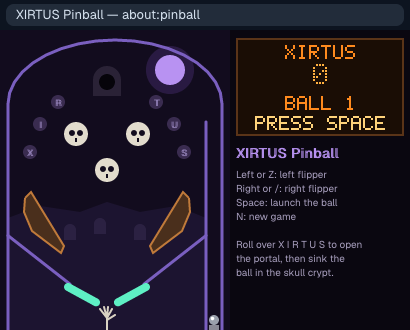
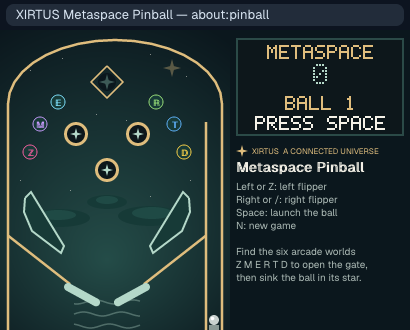
Games: Metaspace theme for pinball, and where its frame time goes
The pinball table becomes XIRTUS Metaspace Pinball: the Metaspace
palette and sigil, the archipelago under the stars, and six rollover
lights for the Xirtus Arcade worlds (Z M E R T D) that open the gate.
Physics and layout are unchanged. The ledger records a split of frame
time in QEMU (TCG, no KVM) against a native host run.

Claude-Session: https://claude.ai/code/session_01Hh8Vnj7cURgGrgHW2S2vc1

diff --git a/apps/web/src/games/pinball.html b/apps/web/src/games/pinball.html
@@ -1,11 +1,13 @@
 <!doctype html>
-<title>XIRTUS Pinball</title>
-<body style="margin:0;background:#0a0710">
+<title>XIRTUS Metaspace Pinball</title>
+<body style="margin:0;background:#0b171d">
 <canvas id="table" width="410" height="300" style="display:block"></canvas>
-<!-- Pinball on a haunted night table, played from the keyboard. Original SexOS game,
-     GPL-3.0-only. Its theme follows Anderson Mancini's Graveyard Pinball (with his
-     permission): coffin slingshots, a skull crypt, a dot-matrix display, a chrome ball
-     and glowing flippers under a purple moon. No code or art is taken from it.
+<!-- Pinball across the XIRTUS Metaspace, played from the keyboard. Original SexOS game,
+     GPL-3.0-only. The table is a map of the Metaspace archipelago: six lights are the
+     Xirtus Arcade worlds (ZENDRIVE, MANDELPOD, MACHINE ELF, RABBITVERSE, TSUNAMI and
+     Rubber Duckie), and finding all six opens the gate at the top. Colours follow the
+     Metaspace (ink, teal, mint, gold, ivory). Its layout grew from Anderson Mancini's
+     Graveyard Pinball (with his permission); no code or art is taken from it.
      Left or Z flips left, Right or / flips right, Space launches, N starts again. -->
 <script>
 'use strict';
@@ -44,8 +46,9 @@ const PLUNGER_Y = 295, REST_Y = PLUNGER_Y - R;
 const GATE = segment([206, 92], [222, 80], 0.4);
 const BUMPERS = [{ x: 76, y: 104 }, { x: 138, y: 104 }, { x: 107, y: 140 }].map(b => Object.assign(b, { r: 12, until: 0 }));
 const CRYPT = { x: 107, y: 52 };
-const LETTERS = 'XIRTUS';
-const SPOTS = [[30, 122], [40, 94], [58, 72], [156, 72], [174, 94], [184, 122]].map(([x, y], i) => ({ x, y, ch: LETTERS[i], on: false, inside: false }));
+// The six Xirtus Arcade worlds, each a light with its initial and its own colour.
+const WORLDS = [['Z', 'ZENDRIVE', '#ff5fa2'], ['M', 'MANDELPOD', '#c99bff'], ['E', 'MACHINE ELF', '#7fe3ff'], ['R', 'RABBITVERSE', '#9be37a'], ['T', 'TSUNAMI', '#5fb4ff'], ['D', 'DUCKIE', '#ffd447']];
+const SPOTS = [[30, 122], [40, 94], [58, 72], [156, 72], [174, 94], [184, 122]].map(([x, y], i) => ({ x, y, ch: WORLDS[i][0], name: WORLDS[i][1], color: WORLDS[i][2], on: false, inside: false }));
 const FL = 32;
 const flippers = [
   { px: 68, py: 257, rest: 0.5, up: -0.45, box: [60, 234, 48, 48] },
@@ -134,7 +137,7 @@ function move(dt) {
       const s = cell.spots[i];
       const ex = ball.x - s.x, ey = ball.y - s.y, inside = ex * ex + ey * ey < 64;
       if (inside && !s.inside) {
-        if (!s.on) { s.on = true; award(500); if (SPOTS.every(p => p.on)) { portal = true; say('PORTAL OPEN', 3); } }
+        if (!s.on) { s.on = true; award(500); if (SPOTS.every(p => p.on)) { portal = true; say('GATE OPEN', 3); } else say(s.name, 1.5); }
         else award(50);
       }
       s.inside = inside;
@@ -155,8 +158,8 @@ function move(dt) {
     if (portal) {
       portal = false; mult = Math.min(mult + 1, 5); award(10000);
       for (const s of SPOTS) s.on = false;
-      say('PORTAL X' + mult, 2);
-    } else { award(2500); say('CRYPT', 1.5); }
+      say('CONNECTED X' + mult, 2);
+    } else { award(2500); say('METASPACE', 1.5); }
   }
   // A ball that comes to rest on the table gets a nudge.
   if (!ball.inLane && ball.vx * ball.vx + ball.vy * ball.vy < 9) {
@@ -214,48 +217,57 @@ document.addEventListener('keydown', e => { if (key(e)) e.preventDefault(); });
 // ---- drawing ----
 function circle(c, x, y, r) { c.beginPath(); c.arc(x, y, r, 0, 7); }
 function poly(c, pts) { c.beginPath(); c.moveTo(pts[0][0], pts[0][1]); for (let i = 1; i < pts.length; i++) c.lineTo(pts[i][0], pts[i][1]); }
+// A four-pointed star, the Metaspace sigil.
+function sigil(c, x, y, r) {
+  c.beginPath();
+  for (let i = 0; i < 8; i++) { const a = i * Math.PI / 4 - Math.PI / 2, d = i % 2 ? r * 0.3 : r; c.lineTo(x + d * Math.cos(a), y + d * Math.sin(a)); }
+  c.closePath();
+}
 function drawBase(c) {
-  c.fillStyle = '#120c1e'; c.fillRect(0, 0, TW, H);
-  // The moon, and graves on the hill under it.
-  c.fillStyle = 'rgba(150,90,230,0.18)'; circle(c, 170, 40, 24); c.fill();
-  c.fillStyle = '#b892f2'; circle(c, 170, 40, 15); c.fill();
-  c.fillStyle = '#1c1430'; poly(c, [[8, 188], [40, 176], [80, 182], [107, 172], [140, 182], [176, 176], [206, 188], [206, 300], [8, 300]]); c.fill();
-  c.fillStyle = '#2b2142';
-  for (const [x, y] of [[70, 196], [100, 190], [140, 196]]) { c.beginPath(); c.moveTo(x - 6, y + 14); c.lineTo(x - 6, y + 4); c.arc(x, y + 4, 6, Math.PI, 0); c.lineTo(x + 6, y + 14); c.fill(); }
-  // A bony hand reaching up out of the drain.
-  c.strokeStyle = '#d9d2c2'; c.lineWidth = 2; c.lineCap = 'round';
-  c.beginPath(); c.moveTo(107, 300); c.lineTo(107, 288);
-  for (const [x, y] of [[100, 279], [104, 277], [108, 277], [112, 279]]) { c.moveTo(107, 288); c.lineTo(x, y); }
-  c.moveTo(107, 290); c.lineTo(115, 285); c.stroke();
-  c.strokeStyle = '#7a5fc0'; c.lineWidth = 3; c.lineJoin = 'round';
+  const sky = c.createRadialGradient(107, 230, 10, 107, 170, 200);
+  sky.addColorStop(0, '#244c48'); sky.addColorStop(1, '#0b171d');
+  c.fillStyle = sky; c.fillRect(0, 0, TW, H);
+  // Stars, and the archipelago's islands under them.
+  c.fillStyle = 'rgba(244,241,231,0.5)';
+  for (const [x, y] of [[30, 40], [62, 28], [150, 24], [186, 46], [96, 84], [126, 90], [20, 150], [190, 150], [70, 160], [150, 166]]) c.fillRect(x, y, 1, 1);
+  c.fillStyle = 'rgba(223,189,125,0.35)'; sigil(c, 172, 38, 9); c.fill();
+  c.fillStyle = '#163a37';
+  for (const [x, y, rx, ry] of [[60, 188, 30, 9], [150, 186, 32, 10], [107, 172, 20, 7]]) { c.beginPath(); c.ellipse(x, y, rx, ry, 0, 0, 7); c.fill(); }
+  c.fillStyle = '#1f4a45';
+  for (const [x, y, rx, ry] of [[58, 185, 18, 5], [152, 183, 20, 6], [107, 170, 11, 4]]) { c.beginPath(); c.ellipse(x, y, rx, ry, 0, 0, 7); c.fill(); }
+  // The coast at the bottom: waves rolling towards the drain.
+  c.strokeStyle = 'rgba(180,216,201,0.35)'; c.lineWidth = 1.5;
+  for (const y of [272, 284, 296]) { c.beginPath(); for (let x = 74; x <= 140; x += 2) c.lineTo(x, y + 2 * Math.sin((x + y) / 6)); c.stroke(); }
+  c.strokeStyle = '#dfbd7d'; c.lineWidth = 2.5; c.lineJoin = 'round';
   for (const pts of [OUTLINE, LANE, GUIDE_L, GUIDE_R]) { poly(c, pts); c.stroke(); }
-  // The crypt's doorway.
-  c.fillStyle = '#2a2236'; c.beginPath(); c.moveTo(93, 66); c.lineTo(93, 50); c.arc(107, 50, 14, Math.PI, 0); c.lineTo(121, 66); c.fill();
-  c.fillStyle = '#8a8a96'; c.fillRect(209, PLUNGER_Y, 10, H - PLUNGER_Y);
+  // The gate's frame: a diamond like the Metaspace's emblem.
+  c.strokeStyle = '#dfbd7d'; c.lineWidth = 1.5; poly(c, [[107, 36], [123, 52], [107, 68], [91, 52], [107, 36]]); c.stroke();
+  c.fillStyle = '#8a9a96'; c.fillRect(209, PLUNGER_Y, 10, H - PLUNGER_Y);
 }
 const box = pts => { const xs = pts.map(p => p[0]), ys = pts.map(p => p[1]); return [Math.min(...xs) - 3, Math.min(...ys) - 3, Math.max(...xs) - Math.min(...xs) + 6, Math.max(...ys) - Math.min(...ys) + 6]; };
 // The lights: each has a box, a state, and draws itself into `lit` when its state changes.
 const LIGHTS = [
-  { box: [203, 77, 22, 19], state: () => gateOn, draw: (c, on) => { if (on) { c.strokeStyle = '#5a4890'; c.lineWidth = 2; c.beginPath(); c.moveTo(GATE.ax, GATE.ay); c.lineTo(GATE.bx, GATE.by); c.stroke(); } } },
-  { box: [97, 42, 20, 20], state: () => held > 0 || portal, draw: (c, on) => { c.fillStyle = on ? '#3cff9a' : '#06040a'; circle(c, CRYPT.x, CRYPT.y, 8); c.fill(); } },
+  { box: [203, 77, 22, 19], state: () => gateOn, draw: (c, on) => { if (on) { c.strokeStyle = '#b4d8c9'; c.lineWidth = 2; c.beginPath(); c.moveTo(GATE.ax, GATE.ay); c.lineTo(GATE.bx, GATE.by); c.stroke(); } } },
+  { box: [97, 42, 20, 20], state: () => held > 0 || portal, draw: (c, on) => { c.fillStyle = on ? 'rgba(180,216,201,0.35)' : '#0b171d'; circle(c, CRYPT.x, CRYPT.y, 9); c.fill(); c.fillStyle = on ? '#f4f1e7' : '#3d5a57'; sigil(c, CRYPT.x, CRYPT.y, 8); c.fill(); } },
   ...[[COFFIN_L, 'slingL'], [COFFIN_R, 'slingR']].map(([pts, tag]) => ({ box: box(pts), state: () => slings[tag] > time,
-    draw: (c, on) => { c.fillStyle = '#4a2f1c'; poly(c, pts); c.fill(); c.strokeStyle = on ? '#ffe08a' : '#c07a3a'; c.lineWidth = 2; c.stroke(); } })),
+    draw: (c, on) => { c.fillStyle = on ? '#2f6b63' : '#173a37'; poly(c, pts); c.fill(); c.strokeStyle = on ? '#f4f1e7' : '#b4d8c9'; c.lineWidth = 2; c.stroke(); } })),
   ...BUMPERS.map(b => ({ box: [b.x - 14, b.y - 14, 28, 28], state: () => b.until > time, draw: (c, on) => {
-    c.fillStyle = on ? '#fff6c0' : '#e2dccd'; circle(c, b.x, b.y, b.r); c.fill();
-    c.fillStyle = '#120c1e'; circle(c, b.x - 4, b.y - 1, 3); c.fill(); circle(c, b.x + 4, b.y - 1, 3); c.fill();
-    c.fillRect(b.x - 1, b.y + 4, 2, 4);
+    c.fillStyle = on ? '#f4f1e7' : '#dfbd7d'; circle(c, b.x, b.y, b.r); c.fill();
+    c.fillStyle = on ? '#dfbd7d' : '#0d171b'; circle(c, b.x, b.y, b.r - 3); c.fill();
+    c.fillStyle = on ? '#0d171b' : '#b4d8c9'; sigil(c, b.x, b.y, 6); c.fill();
   } })),
   ...SPOTS.map(s => ({ box: [s.x - 9, s.y - 9, 18, 18], state: () => s.on, draw: (c, on) => {
-    c.fillStyle = on ? '#ff9a2e' : '#3a2c50'; circle(c, s.x, s.y, 7); c.fill();
+    c.fillStyle = on ? s.color : '#173a37'; circle(c, s.x, s.y, 7); c.fill();
+    c.strokeStyle = s.color; c.lineWidth = 1; c.stroke();
     c.font = 'bold 9px sans-serif'; c.textAlign = 'center'; c.textBaseline = 'middle';
-    c.fillStyle = on ? '#1a0e06' : '#9a88c0'; c.fillText(s.ch, s.x, s.y + 1);
+    c.fillStyle = on ? '#0d171b' : s.color; c.fillText(s.ch, s.x, s.y + 1);
   } })),
 ].map(l => Object.assign(l, { shown: null }));
 // The chrome ball, drawn once and copied.
 const ballCanvas = document.createElement('canvas');
 ballCanvas.width = ballCanvas.height = 12;
 (c => {
-  c.fillStyle = '#9aa0ac'; circle(c, 6, 6, R); c.fill();
+  c.fillStyle = '#c9d2cf'; circle(c, 6, 6, R); c.fill();
   c.fillStyle = '#ffffff'; circle(c, 4.5, 4.5, 1.8); c.fill();
 })(ballCanvas.getContext('2d'));
 const touch = (a, b) => a[0] < b[0] + b[2] && b[0] < a[0] + a[2] && a[1] < b[1] + b[3] && b[1] < a[1] + a[3];
@@ -279,7 +291,7 @@ function drawTable() {
   const redraw = flippers.filter(f => f.a !== f.drawn || dirty.some(d => touch(d, f.box)));
   for (const f of redraw) dirty.push(f.box);
   for (const [x, y, w, h] of dirty) g.drawImage(litCanvas, x, y, w, h, x, y, w, h);
-  g.strokeStyle = '#5ef0c4'; g.lineWidth = 8; g.lineCap = 'round';
+  g.strokeStyle = '#b4d8c9'; g.lineWidth = 8; g.lineCap = 'round';
   for (const f of redraw) { g.beginPath(); g.moveTo(f.px, f.py); g.lineTo(f.px + FL * Math.cos(f.a), f.py + FL * Math.sin(f.a)); g.stroke(); f.drawn = f.a; }
   if (ballBox) g.drawImage(ballCanvas, Math.round(ball.x) - 6, Math.round(ball.y) - 6);
   return dirty.length;
@@ -332,20 +344,23 @@ function display(now) {
   const at = performance.now();
   if (text === shown || (!now && at - shownAt < 250)) return;
   shown = text; shownAt = at;
-  g.fillStyle = '#1a0d05'; g.fillRect(PX, 8, PW, 98);
-  g.strokeStyle = '#5a3418'; g.lineWidth = 2; g.strokeRect(PX + 1, 9, PW - 2, 96);
-  dots('XIRTUS', 15, 2, '#ff8a1e');
-  dots(String(score), 34, 3, '#ffb040');
-  dots(status, 66, 2, '#ff8a1e');
-  dots(messageUntil > time ? message : idle(), 86, 2, '#ffd27a');
+  g.fillStyle = '#0d171b'; g.fillRect(PX, 8, PW, 98);
+  g.strokeStyle = '#2b4a47'; g.lineWidth = 2; g.strokeRect(PX + 1, 9, PW - 2, 96);
+  dots('METASPACE', 15, 2, '#dfbd7d');
+  dots(String(score), 34, 3, '#b4d8c9');
+  dots(status, 66, 2, '#dfbd7d');
+  dots(messageUntil > time ? message : idle(), 86, 2, '#f4f1e7');
 }
 function panel() {
-  g.fillStyle = '#0a0710'; g.fillRect(TW, 0, 410 - TW, H);
-  g.fillStyle = '#b892f2'; g.font = 'bold 14px sans-serif'; g.textAlign = 'left'; g.textBaseline = 'alphabetic';
-  g.fillText('XIRTUS Pinball', PX, 128);
-  g.font = '10px sans-serif'; g.fillStyle = '#a89fbe';
-  let y = 148;
-  for (const line of ['Left or Z: left flipper', 'Right or /: right flipper', 'Space: launch the ball', 'N: new game', '', 'Roll over X I R T U S to open', 'the portal, then sink the', 'ball in the skull crypt.']) { g.fillText(line, PX, y); y += 14; }
+  g.fillStyle = '#0b171d'; g.fillRect(TW, 0, 410 - TW, H);
+  g.fillStyle = '#dfbd7d'; sigil(g, PX + 6, 121, 6); g.fill();
+  g.font = '8px sans-serif'; g.textAlign = 'left'; g.textBaseline = 'alphabetic';
+  g.fillText('XIRTUS  A CONNECTED UNIVERSE', PX + 16, 124);
+  g.fillStyle = '#f4f1e7'; g.font = 'bold 14px sans-serif';
+  g.fillText('Metaspace Pinball', PX, 142);
+  g.font = '10px sans-serif'; g.fillStyle = '#adbbb6';
+  let y = 160;
+  for (const line of ['Left or Z: left flipper', 'Right or /: right flipper', 'Space: launch the ball', 'N: new game', '', 'Find the six arcade worlds', 'Z M E R T D to open the gate,', 'then sink the ball in its star.']) { g.fillText(line, PX, y); y += 13; }
 }
 
 newGame();

diff --git a/apps/web/src/games/index.html b/apps/web/src/games/index.html
@@ -22,7 +22,7 @@
 <p>Walk a brick maze in 3D (WebGL) and find the gold. Up walks, Left and Right turn, A walks by itself, N makes a new maze.</p>
 <h2><a href="about:chess3d">3D Chess</a></h2>
 <p>The same chess on a three.js board with turned pieces. It takes a while to load three.js.</p>
-<h2><a href="about:pinball">XIRTUS Pinball</a></h2>
-<p>A haunted night table: skull bumpers, coffin slingshots and a crypt. Left and Right flip, Space launches the ball.</p>
+<h2><a href="about:pinball">XIRTUS Metaspace Pinball</a></h2>
+<p>A table across the Metaspace archipelago: find the six Xirtus Arcade worlds to open the gate. Left and Right flip, Space launches the ball.</p>
 <p style="margin-top:12px;color:#777">Press → to pick a game and Enter to start it. Backspace in a game is undo; F11 closes. Programs <code>run solitaire</code>, <code>run chess</code>, <code>run chess3d</code>, <code>run maze</code> and <code>run pinball</code> open them directly.</p>
 </main>

diff --git a/scripts/program_games_gate.py b/scripts/program_games_gate.py
@@ -37,7 +37,7 @@ def main():
   'maze-walked':reference(a.out,GAMES/'maze.html','Maze — about:maze','maze-walked','keyArrowUp'),
   'chess3d':reference(a.out,GAMES/'chess3d.html','3D Chess — about:chess3d','chess3d'),
   'chess3d-picked':reference(a.out,GAMES/'chess3d.html','3D Chess — about:chess3d','chess3d-picked','keyEnter'),
-  'pinball':reference(a.out,GAMES/'pinball.html','XIRTUS Pinball — about:pinball','pinball')}
+  'pinball':reference(a.out,GAMES/'pinball.html','XIRTUS Metaspace Pinball — about:pinball','pinball')}
  g=boot(a.iso,disk,a.out,'games',a.resolution);t=g['text'];q=g['q']
  def run(line):
   g['focus'](153);time.sleep(.5)

diff --git a/docs/handoff/SEXOS_FEATURE_LEDGER_2026_11_02.md b/docs/handoff/SEXOS_FEATURE_LEDGER_2026_11_02.md
@@ -3060,3 +3060,17 @@ row no longer waits for the row before it to end.
   r183's WebGL2 shader prefix (`precision highp usampler2D;`) isn't parsed yet; the
   browser thread has that. Under QEMU it would take hours per frame, so it waits for a
   much faster JS engine.
+
+## Games: Metaspace Pinball theme, and where the frame time goes (2026-11-09)
+
+- **Metaspace table.** Andreas asked for the pinball to use the Xirtus Arcade games and feel like part of the XIRTUS Metaspace. It's now XIRTUS Metaspace Pinball, using the Metaspace palette: ink, teal, mint, gold and ivory, with the four-pointed sigil.
+  - The six rollover lights are the arcade worlds ZENDRIVE, MANDELPOD, MACHINE ELF, RABBITVERSE, TSUNAMI and Rubber Duckie (Z M E R T D), each in its own colour. The display names a world when you find it.
+  - Finding all six opens the gate, and sinking the ball in the gate's star raises the multiplier.
+  - The background is the archipelago, with islands under the stars and waves rolling into the drain.
+  - Physics and layout are unchanged, and the page stays GPL-3.0-only. No assets are copied: everything is drawn in code.
+- **Speed measurement.** The same master pinball page was run two ways:
+  - In QEMU (the games gate): 7-9 fps, with physics 26 ms and drawing 22 ms per frame at 10 steps.
+  - On the host with the `page` example (release, self-playing copy): 52-54 fps (the example's frame pacing), with physics 0-1 ms and drawing 1-3 ms at 2 steps.
+  - The cloud container has no `/dev/kvm`, so QEMU runs as TCG: every instruction is emulated, and programs are soft-float until SSE (#18).
+  - Most of pinball's QEMU slowdown is therefore emulation, not SexOS.
+  - Heavier pages (three.js) are bound by QuickJS running inside wasmi even on the host. The browser thread owns that work.
